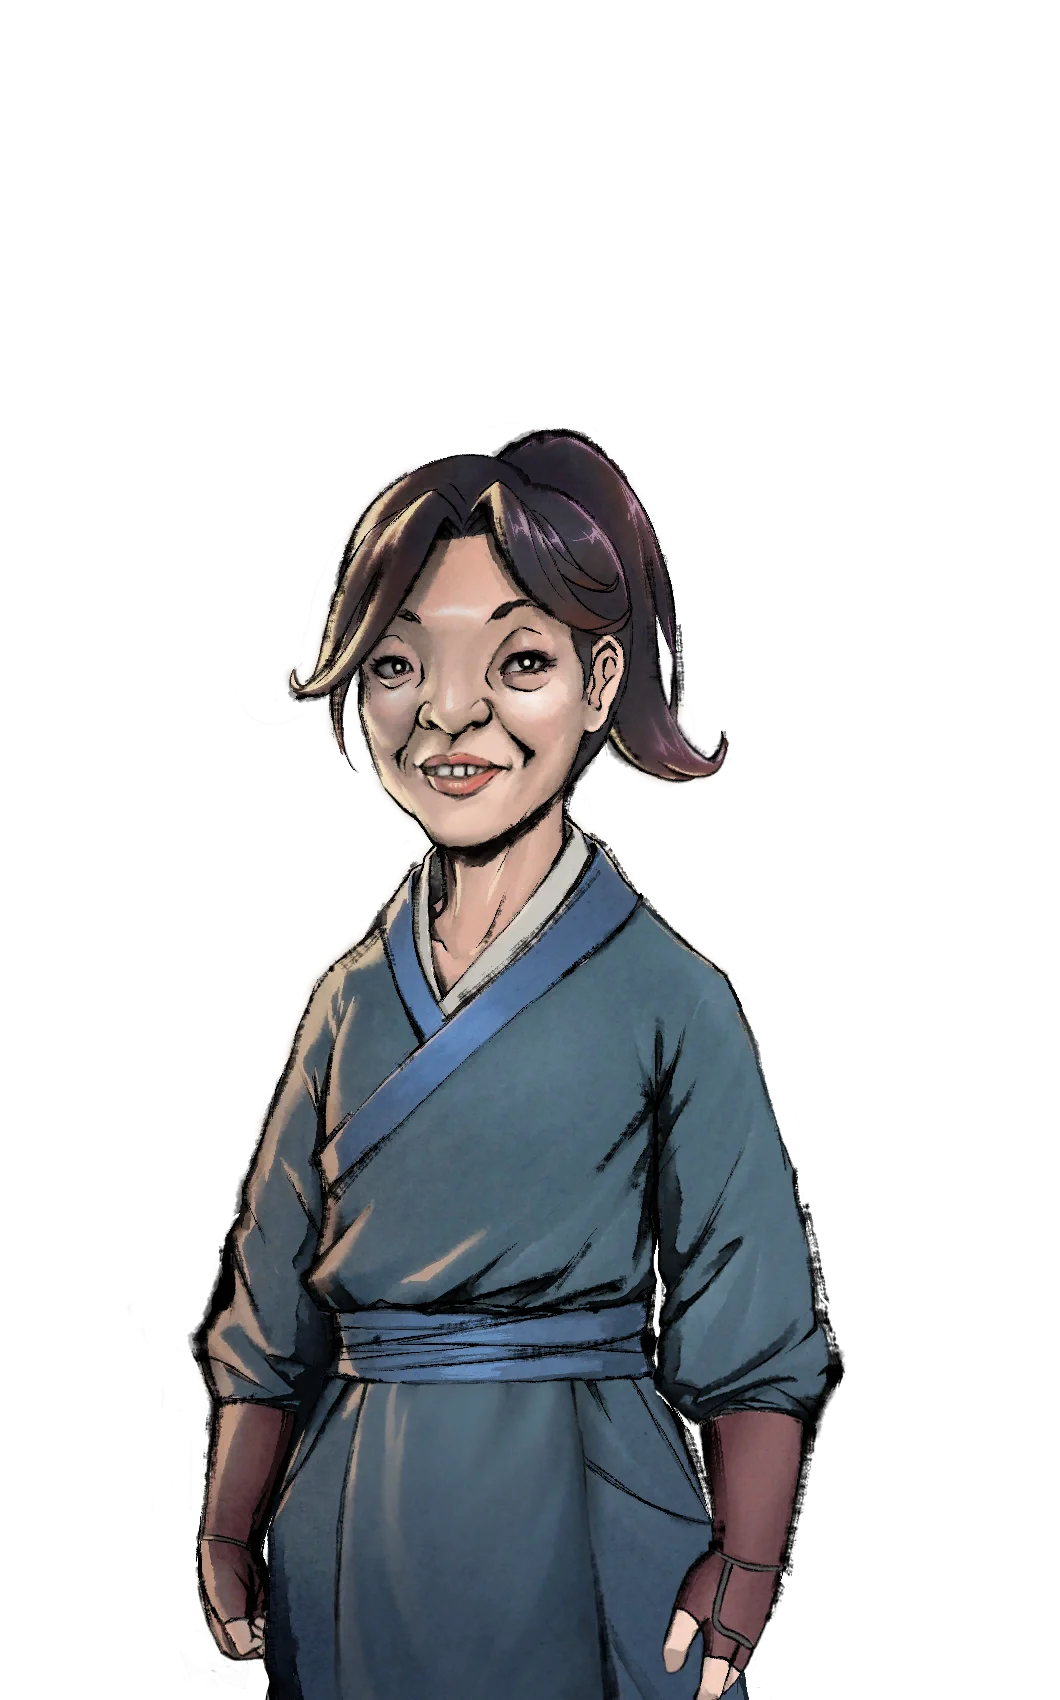
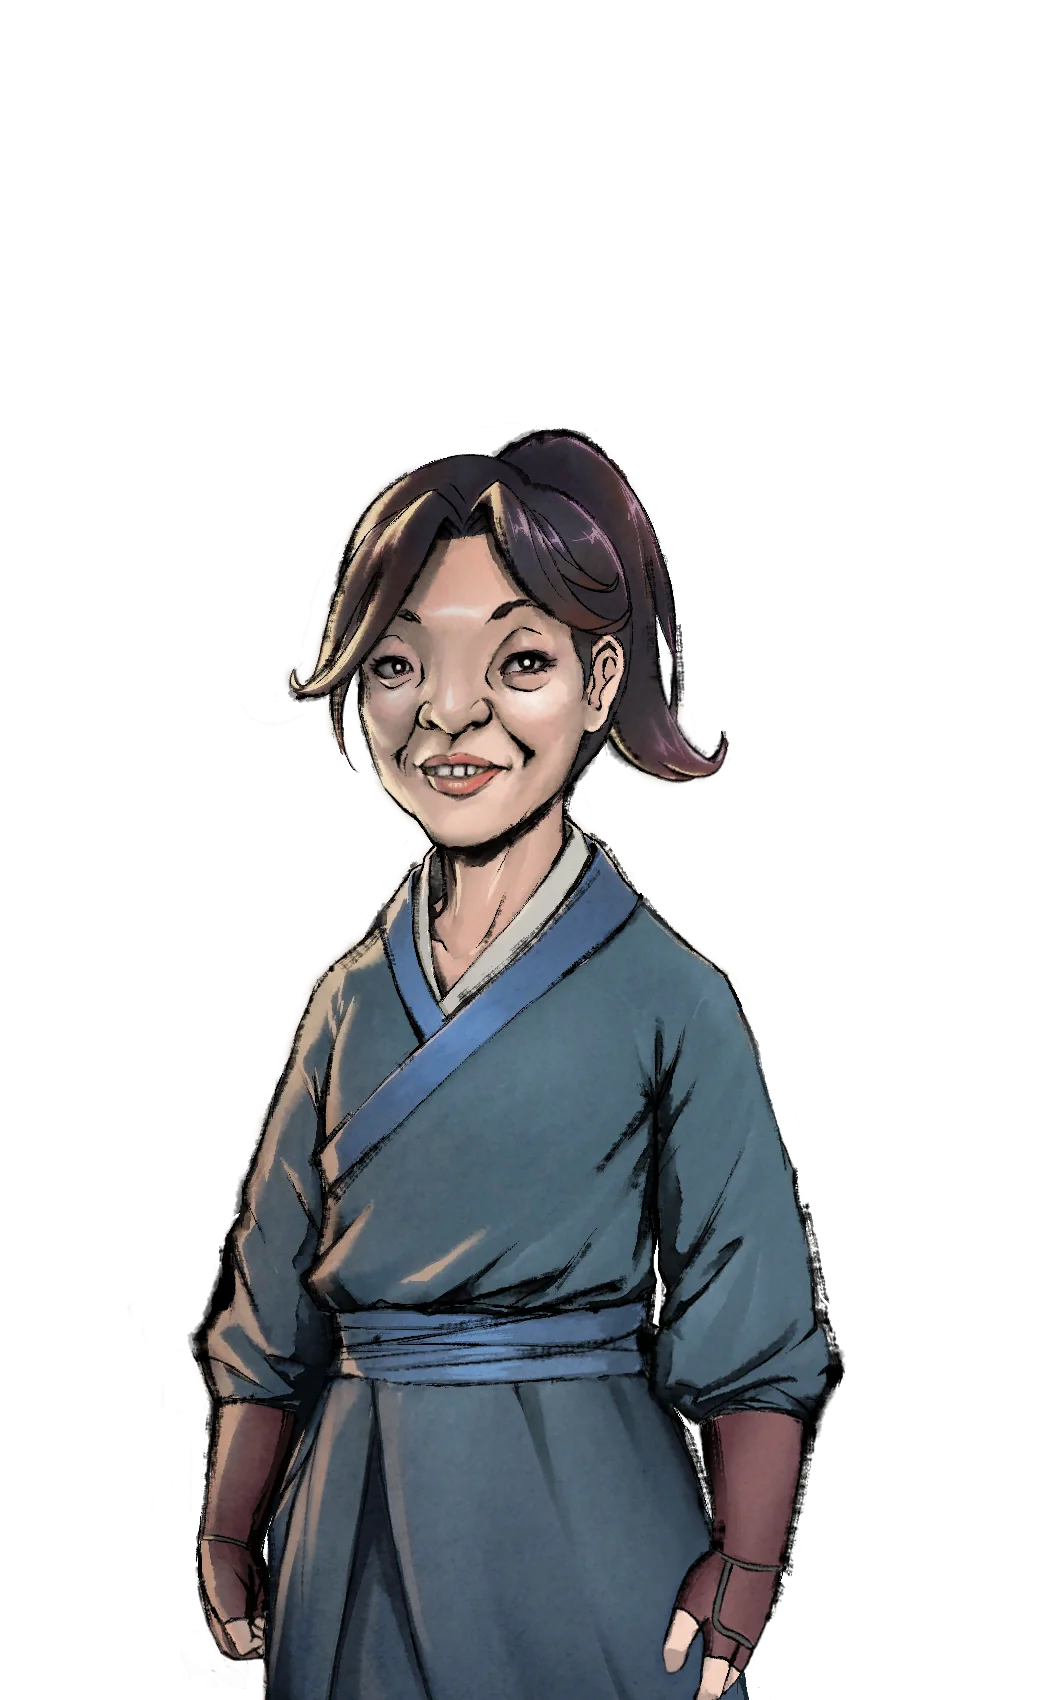
趙活補上 17 個分頁、重排分頁順序，立繪換成新版

Changed region(s): [[0.4047, 0.7794, 0.6849, 1.0], [0.2491, 0.7794, 0.4047, 1.0], [0.4047, 0.9976, 0.4358, 1.0]]

diff --git a/docs/people/characters/player.md b/docs/people/characters/player.md
@@ -90,91 +90,7 @@ tags:
             position='center'/>
         <ChName nameZh='自戀' nameEn='Narcissist' position='right' />
     </ChTab>
-    <ChTab title="不爽">
-        <Ch
-            src='/images/characters/player/angry1.webp' 
-            position='center'/>
-        <ChName nameZh='不爽' nameEn='Pissed' position='right' />
-    </ChTab>
-    <ChTab title="生氣">
-        <Ch
-            src='/images/characters/player/angry2.webp' 
-            position='center'/>
-        <ChName nameZh='生氣' nameEn='Angry' position='right' />
-    </ChTab>
-    <ChTab title="猙獰">
-        <Ch
-            src='/images/characters/player/angry3.webp' 
-            position='center'/>
-        <ChName nameZh='猙獰' nameEn='Feral' position='right' />
-    </ChTab>
-    <ChTab title="背影">
-        <Ch
-            src='/images/characters/player/back.webp' 
-            position='center'/>
-        <ChName nameZh='背影' nameEn='Back' position='right' />
-    </ChTab>
-    <ChTab title="中招">
-        <Ch
-            src='/images/characters/player/caught.webp' 
-            position='center'/>
-        <ChName nameZh='中招' nameEn='Caught' position='right' />
-    </ChTab>
-    <ChTab title="閉眼">
-        <Ch
-            src='/images/characters/player/close_eye.webp' 
-            position='center'/>
-        <ChName nameZh='閉眼' nameEn='Close Eyes' position='right' />
-    </ChTab>
-    <ChTab title="決心">
-        <Ch
-            src='/images/characters/player/determined.webp' 
-            position='center'/>
-        <ChName nameZh='決心' nameEn='Determined' position='right' />
-    </ChTab>
-    <ChTab title="吐槽">
-        <Ch
-            src='/images/characters/player/doubt.webp' 
-            position='center'/>
-        <ChName nameZh='吐槽' nameEn='Doubt' position='right' />
-    </ChTab>
-    <ChTab title="無悔">
-        <Ch
-            src='/images/characters/player/fist_north_star.webp' 
-            position='center'/>
-        <ChName nameZh='無悔' nameEn='Fist North Star' position='right' />
-    </ChTab>
-    <ChTab title="計畫通">
-        <Ch
-            src='/images/characters/player/gloomy2.webp' 
-            position='center'/>
-        <ChName nameZh='計畫通' nameEn='As Planned' position='right' />
-    </ChTab>
-    <ChTab title="被揍">
-        <Ch
-            src='/images/characters/player/head.webp' 
-            position='center'/>
-        <ChName nameZh='被揍' nameEn='Beaten' position='right' />
-    </ChTab>
-    <ChTab title="落地">
-        <Ch
-            src='/images/characters/player/hero_landing.webp' 
-            position='center'/>
-        <ChName nameZh='落地' nameEn='Landing' position='right' />
-    </ChTab>
-    <ChTab title="鼻青臉腫">
-        <Ch
-            src='/images/characters/player/hurt.webp' 
-            position='center'/>
-        <ChName nameZh='鼻青臉腫' nameEn='Black and Blue' position='right' />
-    </ChTab>
-    <ChTab title="奄奄一息">
-        <Ch
-            src='/images/characters/player/hurt2.webp' 
-            position='center'/>
-        <ChName nameZh='奄奄一息' nameEn='Dying' position='right' />
-    </ChTab>
-        <ChTab title="微笑">
+    <ChTab title="微笑">
         <Ch
             src='/images/characters/player/laugh1.webp' 
             position='center'/>
@@ -185,6 +101,12 @@ tags:
             src='/images/characters/player/laugh2.webp' 
             position='center'/>
         <ChName nameZh='大笑' nameEn='Laugh' position='right' />
+    </ChTab>
+    <ChTab title="閉眼笑">
+        <Ch
+            src='/images/characters/player/close_eye_laugh.webp' 
+            position='center'/>
+        <ChName nameZh='閉眼笑' nameEn='Close Eyes Smile' position='right' />
     </ChTab>
     <ChTab title="頓住">
         <Ch
@@ -204,35 +126,17 @@ tags:
             position='center'/>
         <ChName nameZh='尷尬' nameEn='Awkward' position='right' />
     </ChTab>
-    <ChTab title="甩頭">
-        <Ch
-            src='/images/characters/player/oraora.webp' 
-            position='center'/>
-        <ChName nameZh='甩頭' nameEn='Shaken' position='right' />
-    </ChTab>
-    <ChTab title="想入非非">
-        <Ch
-            src='/images/characters/player/revel.webp' 
-            position='center'/>
-        <ChName nameZh='想入非非' nameEn='Revel' position='right' />
-    </ChTab>
-    <ChTab title="悲傷">
-        <Ch
-            src='/images/characters/player/sad1.webp' 
-            position='center'/>
-        <ChName nameZh='悲傷' nameEn='Sad' position='right' />
-    </ChTab>
     <ChTab title="驚嚇">
         <Ch
             src='/images/characters/player/shock.webp' 
             position='center'/>
         <ChName nameZh='驚嚇' nameEn='Shock' position='right' />
     </ChTab>
-    <ChTab title="使徒">
+    <ChTab title="吐槽">
         <Ch
-            src='/images/characters/player/special1.webp' 
+            src='/images/characters/player/doubt.webp' 
             position='center'/>
-        <ChName nameZh='使徒' nameEn='EVA Angel' position='right' />
+        <ChName nameZh='吐槽' nameEn='Doubt' position='right' />
     </ChTab>
     <ChTab title="耍笨">
         <Ch
@@ -240,11 +144,65 @@ tags:
             position='center'/>
         <ChName nameZh='耍笨' nameEn='Stupid' position='right' />
     </ChTab>
+    <ChTab title="不爽">
+        <Ch
+            src='/images/characters/player/angry1.webp' 
+            position='center'/>
+        <ChName nameZh='不爽' nameEn='Pissed' position='right' />
+    </ChTab>
+    <ChTab title="生氣">
+        <Ch
+            src='/images/characters/player/angry2.webp' 
+            position='center'/>
+        <ChName nameZh='生氣' nameEn='Angry' position='right' />
+    </ChTab>
+    <ChTab title="猙獰">
+        <Ch
+            src='/images/characters/player/angry3.webp' 
+            position='center'/>
+        <ChName nameZh='猙獰' nameEn='Feral' position='right' />
+    </ChTab>
+    <ChTab title="悲傷">
+        <Ch
+            src='/images/characters/player/sad1.webp' 
+            position='center'/>
+        <ChName nameZh='悲傷' nameEn='Sad' position='right' />
+    </ChTab>
+    <ChTab title="閉眼">
+        <Ch
+            src='/images/characters/player/close_eye.webp' 
+            position='center'/>
+        <ChName nameZh='閉眼' nameEn='Close Eyes' position='right' />
+    </ChTab>
+    <ChTab title="決心">
+        <Ch
+            src='/images/characters/player/determined.webp' 
+            position='center'/>
+        <ChName nameZh='決心' nameEn='Determined' position='right' />
+    </ChTab>
+    <ChTab title="想入非非">
+        <Ch
+            src='/images/characters/player/revel.webp' 
+            position='center'/>
+        <ChName nameZh='想入非非' nameEn='Revel' position='right' />
+    </ChTab>
+    <ChTab title="計畫通">
+        <Ch
+            src='/images/characters/player/gloomy2.webp' 
+            position='center'/>
+        <ChName nameZh='計畫通' nameEn='As Planned' position='right' />
+    </ChTab>
     <ChTab title="城之內">
         <Ch
             src='/images/characters/player/suck1.webp' 
             position='center'/>
         <ChName nameZh='城之內' nameEn='Jonouchi' position='right' />
+    </ChTab>
+    <ChTab title="尖下巴">
+        <Ch
+            src='/images/characters/player/suck4.webp' 
+            position='center'/>
+        <ChName nameZh='尖下巴' nameEn='Pointy Chin' position='right' />
     </ChTab>
     <ChTab title="舔刀">
         <Ch
@@ -252,13 +210,103 @@ tags:
             position='center'/>
         <ChName nameZh='舔刀' nameEn='Lick Knife' position='right' />
     </ChTab>
-        <ChTab title="幼年">
+    <ChTab title="甩頭">
+        <Ch
+            src='/images/characters/player/oraora.webp' 
+            position='center'/>
+        <ChName nameZh='甩頭' nameEn='Shaken' position='right' />
+    </ChTab>
+    <ChTab title="無悔">
+        <Ch
+            src='/images/characters/player/fist_north_star.webp' 
+            position='center'/>
+        <ChName nameZh='無悔' nameEn='Fist North Star' position='right' />
+    </ChTab>
+    <ChTab title="落地">
+        <Ch
+            src='/images/characters/player/hero_landing.webp' 
+            position='center'/>
+        <ChName nameZh='落地' nameEn='Landing' position='right' />
+    </ChTab>
+    <ChTab title="使徒">
+        <Ch
+            src='/images/characters/player/special1.webp' 
+            position='center'/>
+        <ChName nameZh='使徒' nameEn='EVA Angel' position='right' />
+    </ChTab>
+    <ChTab title="運功">
+        <Ch
+            src='/images/characters/player/close_eye_nervous.webp' 
+            position='center'/>
+        <ChName nameZh='運功' nameEn='Circulating Qi' position='right' />
+    </ChTab>
+    <ChTab title="神雷劍">
+        <Ch
+            src='/images/characters/player/god_thunder.webp' 
+            position='center'/>
+        <ChName nameZh='神雷劍' nameEn='Divine Thunder Sword' position='right' />
+    </ChTab>
+    <ChTab title="中招">
+        <Ch
+            src='/images/characters/player/caught.webp' 
+            position='center'/>
+        <ChName nameZh='中招' nameEn='Caught' position='right' />
+    </ChTab>
+    <ChTab title="被揍">
+        <Ch
+            src='/images/characters/player/head.webp' 
+            position='center'/>
+        <ChName nameZh='被揍' nameEn='Beaten' position='right' />
+    </ChTab>
+    <ChTab title="鼻青臉腫">
+        <Ch
+            src='/images/characters/player/hurt.webp' 
+            position='center'/>
+        <ChName nameZh='鼻青臉腫' nameEn='Black and Blue' position='right' />
+    </ChTab>
+    <ChTab title="奄奄一息">
+        <Ch
+            src='/images/characters/player/hurt2.webp' 
+            position='center'/>
+        <ChName nameZh='奄奄一息' nameEn='Dying' position='right' />
+    </ChTab>
+    <ChTab title="浴血">
+        <Ch
+            src='/images/characters/player/blood.webp' 
+            position='center'/>
+        <ChName nameZh='浴血' nameEn='Bloodied' position='right' />
+    </ChTab>
+    <ChTab title="最後的暗器">
+        <Ch
+            src='/images/characters/player/hurt_fist.webp' 
+            position='center'/>
+        <ChName nameZh='最後的暗器' nameEn='The Last Hidden Weapon' position='right' />
+    </ChTab>
+    <ChTab title="背影">
+        <Ch
+            src='/images/characters/player/back.webp' 
+            position='center'/>
+        <ChName nameZh='背影' nameEn='Back' position='right' />
+    </ChTab>
+    <ChTab title="蒙眼">
+        <Ch
+            src='/images/characters/player/eye_mask_nervous1.webp' 
+            position='center'/>
+        <ChName nameZh='蒙眼' nameEn='Blindfolded' position='right' />
+    </ChTab>
+    <ChTab title="蒙面">
+        <Ch
+            src='/images/characters/player/mask.webp' 
+            position='center'/>
+        <ChName nameZh='蒙面' nameEn='Masked' position='right' />
+    </ChTab>
+    <ChTab title="幼年">
         <Ch
             src='/images/characters/player/child.webp' 
             position='center'/>
         <ChName nameZh='幼年' nameEn='Child' position='right' />
     </ChTab>
-        <ChTab title="老年">
+    <ChTab title="老年">
         <Ch
             src='/images/characters/player/old.webp' 
             position='center'/>
@@ -275,6 +323,60 @@ tags:
             src='/images/characters/player/mega_player.webp' 
             position='center'/>
         <ChName nameZh='百萬趙活' nameEn='Mega Zhao Huo' position='right' />
+    </ChTab>
+    <ChTab title="青城">
+        <Ch
+            src='/images/characters/player/section_special_1.webp' 
+            position='center'/>
+        <ChName nameZh='青城' nameEn='Qingcheng' position='right' />
+    </ChTab>
+    <ChTab title="嵩山">
+        <Ch
+            src='/images/characters/player/section_special_2.webp' 
+            position='center'/>
+        <ChName nameZh='嵩山' nameEn='Songshan' position='right' />
+    </ChTab>
+    <ChTab title="全真">
+        <Ch
+            src='/images/characters/player/section_special_3.webp' 
+            position='center'/>
+        <ChName nameZh='全真' nameEn='Quanzhen' position='right' />
+    </ChTab>
+    <ChTab title="點蒼">
+        <Ch
+            src='/images/characters/player/section_special_4.webp' 
+            position='center'/>
+        <ChName nameZh='點蒼' nameEn='Diancang' position='right' />
+    </ChTab>
+    <ChTab title="峨嵋">
+        <Ch
+            src='/images/characters/player/section_special_5.webp' 
+            position='center'/>
+        <ChName nameZh='峨嵋' nameEn='Emei' position='right' />
+    </ChTab>
+    <ChTab title="崆峒">
+        <Ch
+            src='/images/characters/player/section_special_6.webp' 
+            position='center'/>
+        <ChName nameZh='崆峒' nameEn='Kongtong' position='right' />
+    </ChTab>
+    <ChTab title="南宮">
+        <Ch
+            src='/images/characters/player/section_special_7.webp' 
+            position='center'/>
+        <ChName nameZh='南宮' nameEn='Nangong' position='right' />
+    </ChTab>
+    <ChTab title="上官">
+        <Ch
+            src='/images/characters/player/section_special_8.webp' 
+            position='center'/>
+        <ChName nameZh='上官' nameEn='Shangguan' position='right' />
+    </ChTab>
+    <ChTab title="掌派人">
+        <Ch
+            src='/images/characters/player/section_special_9.webp' 
+            position='center'/>
+        <ChName nameZh='掌派人' nameEn='Sect Leader' position='right' />
     </ChTab>
 </ChTabs>
 
